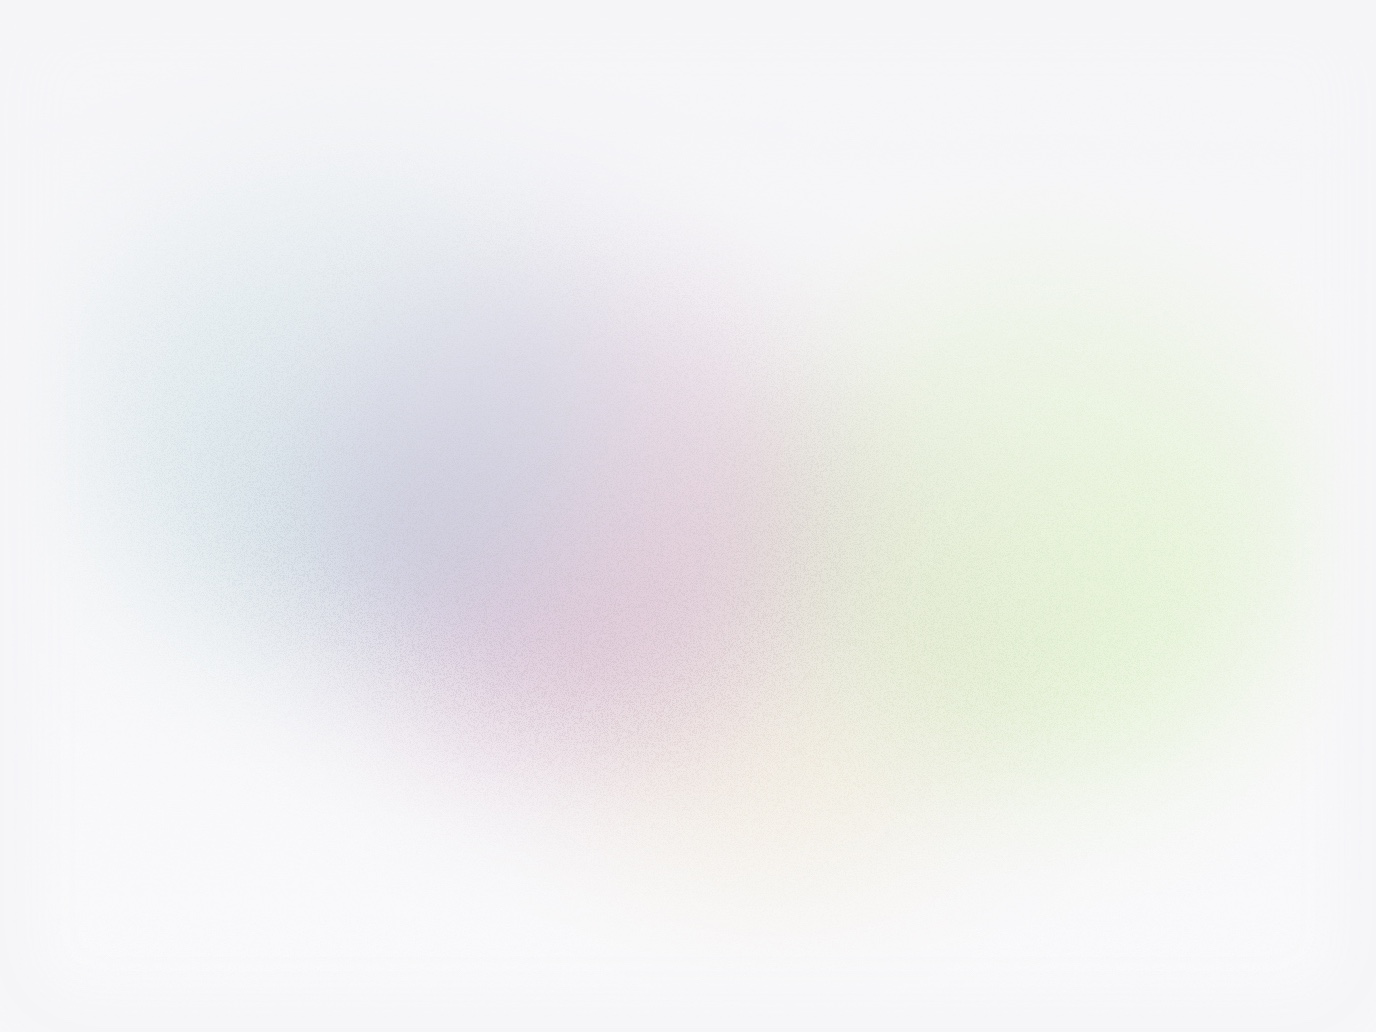
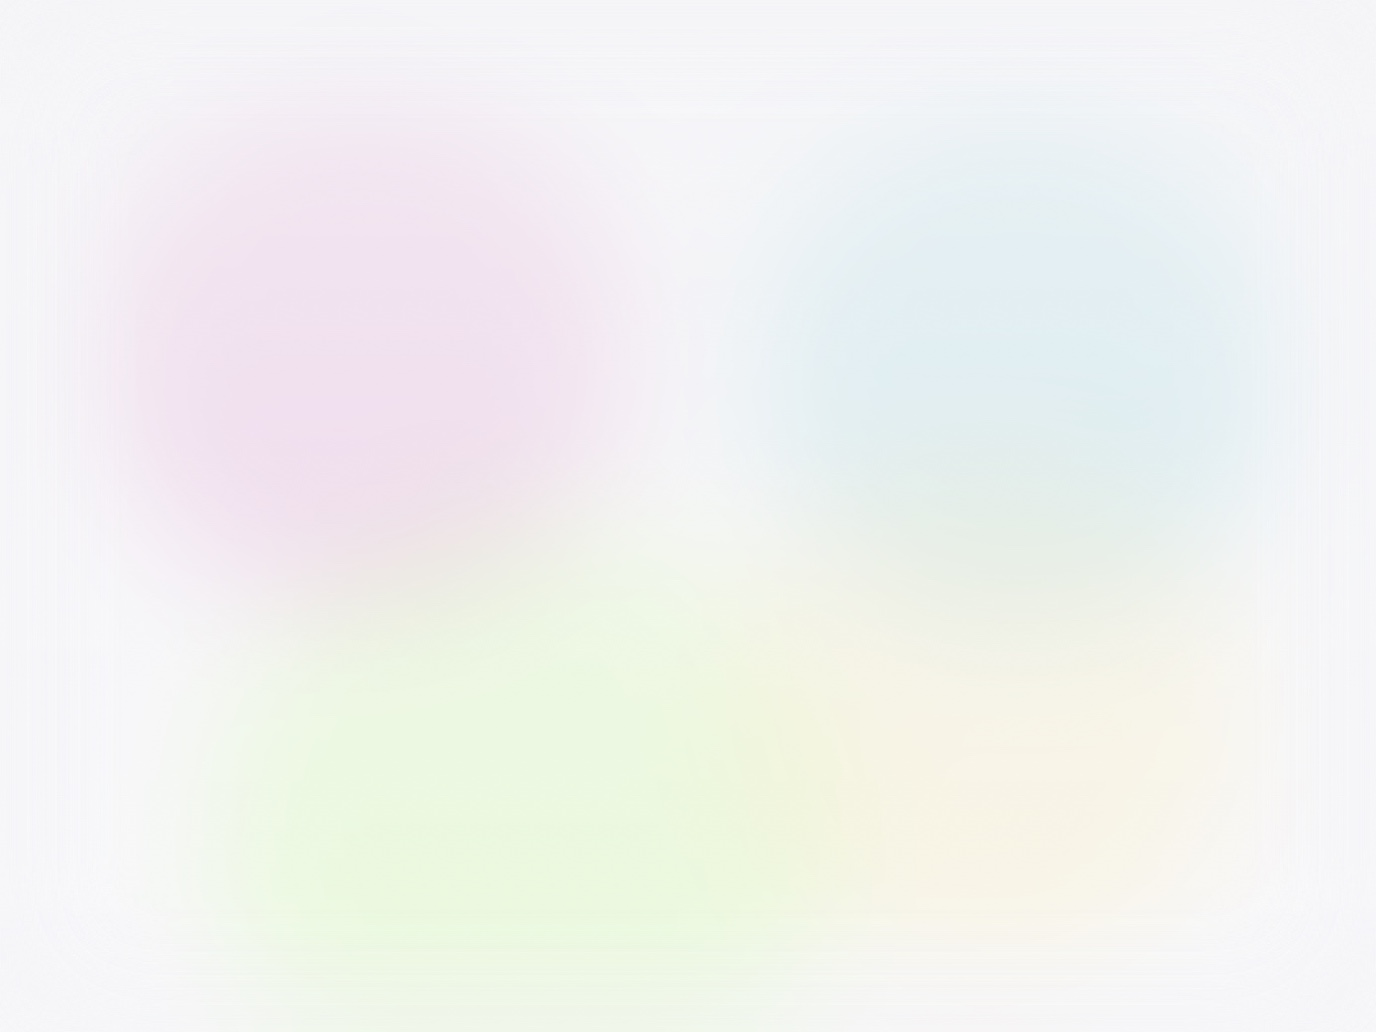
Adjust hero design

Changed region(s): [[0.1562, 0.3411, 0.625, 0.7442], [0.2188, 0.7752, 0.4688, 0.9302]]

diff --git a/_includes/kankoda/heros/hero.html b/_includes/kankoda/heros/hero.html
@@ -8,22 +8,18 @@
 {% endif %}
   
 {% if has-hero %}
-<section class="hero {{page.hero-class}}">
-    <div class="wrapper">
-        {% if has-icon > 0 %}
-        <img class="app-icon sticker" src="{{page.hero-icon}}" />
-        {% endif %}
-        <h1>{{page.hero-title | default: page.title}}</h1>
-        <p>{{page.hero-description | default: page.description}}</p>
-        {% if has-image > 0 %}
-        <div class="image-wrapper">
-            <img src="{{page.hero-image}}" alt="Hero image for {{page.id}} page" class="{{page.hero-image-class}}" />
-        </div>
-        {% elsif has-emoji > 0 %}
-        <span class="emoji">
-            {{page.hero-emoji}}
-        </span>
-        {% endif %}
-    </div>
+<section class="hero wrapper">
+  {% if has-icon > 0 %}
+  <img class="app-icon sticker" src="{{page.hero-icon}}" />
+  {% endif %}
+  <h1>{{page.hero-title | default: page.title}}</h1>
+  <h2>{{page.hero-description | default: page.description}}</h2>
+  {% if has-image > 0 %}
+  <img src="{{page.hero-image}}" alt="Hero image for {{page.id}} page" class="{{page.hero-image-class}}" />
+  {% elsif has-emoji > 0 %}
+  <span class="emoji">
+      {{page.hero-emoji}}
+  </span>
+  {% endif %}
 </section>
 {% endif %}

diff --git a/_sass/kankoda/glass.scss b/_sass/kankoda/glass.scss
@@ -1,18 +1,25 @@
-.glass-container {
+.glass-panel {
+  position: relative;
+  z-index: 1;
+}
 
-  margin: 40px 0;
-  background-image: url('/assets/bg/glass-1.jpg');
+.glass-panel::before {
+  content: "";
+  position: absolute;
+  top: 0; 
+  left: 0;
+  width: 100%; 
+  height: 100%;  
+  opacity: .6; 
+  z-index: -1;
+  background: url('/assets/bg/glass-1.jpg');
   background-position: center;
-  background-size: 100% 100%; /* Stretch image to exactly fill container */
+  background-size: 100% 100%; /* Stretch image to exactly fill panel */
   background-repeat: no-repeat;
-
-  h1 + img { margin: 70px 0; }
 }
 
-.glasscontainer.bg1 {
-  background-image: url('/assets/bg/glass-1.jpg');
-}
-
-.glasscontainer.bg2 {
-  background-image: url('/assets/bg/glass-2.jpg');
-}
+.glass-panel.bg-1::before { background-image: url('/assets/bg/glass-1.jpg'); }
+.glass-panel.bg-2::before { background-image: url('/assets/bg/glass-2.jpg'); }
+.glass-panel.bg-3::before { background-image: url('/assets/bg/glass-3.jpg'); }
+.glass-panel.bg-4::before { background-image: url('/assets/bg/glass-4.jpg'); }
+.glass-panel.bg-5::before { background-image: url('/assets/bg/glass-5.jpg'); }

diff --git a/_sass/kankoda/heros.scss b/_sass/kankoda/heros.scss
@@ -1,58 +1,28 @@
 .hero {
-  padding-top: 50px;
   text-align: center;
-  
-  h1 {
-    font-size: 3.0em !important;
-  }
+
+  h1 { font-size: 1.8em !important; }
+  h2 { font-size: 2.3em !important; }
+  h2 { margin-top: 0em !important; font-weight: bold;}
+  h2 + img { margin: 60px 0; }
 
   img.app-icon {
     width: 100px;
     height: 100px !important;
     margin-bottom: 20px;
   }
-  
-  .image-wrapper {
-    padding: 40px 0;
-  }
-
-  p { 
-    font-size: 1.2em;
-    font-weight: 600 !important;
-  }
-  
-  .emoji {
-    font-size: 10em;
-  }
 }
 
-.hero {
-  img {
-    max-height: 350px !important;
-  }
-}
-
-.home .hero, .hero.devices {
-  img {
-    max-height: 700px !important;
-  }
-}
-
-@media (max-width: 600px) {
+@media (max-width: 500px) {
 
   .hero {
-    padding-top: 35px;
-
-    h1 {
-      font-size: 2em !important;
+    h1 { font-size: 1.3em !important; }
+    h2 { font-size: 1.6em !important; }
+  
+    img.app-icon {
+      width: 100px;
+      height: 100px !important;
+      margin-bottom: 20px;
     }
-
-    .emoji {
-      font-size: 7em !important;
-    }
-  }
-
-  .hero + main {
-    padding-top: 25px;
   }
 }

diff --git a/index.html b/index.html
@@ -2,22 +2,21 @@
 id: home
 title: Home
 layout: plain
-
-description: Kankoda builds software for Apple platforms, using Swift & SwiftUI
+page-class: glass-panel bg-1
+description: Kankoda builds software for all major Apple platforms, using Swift & SwiftUI
 ---
 
 <div class="paper">
 
-  <section class="glass-container">
+  <section class="hero">
     <div class="wrapper wide">
-      <h2><b>Kankoda</b></h2>
-      <h1>Amazing apps & SDKs for Apple platforms</h1>
+      <h1>Kankoda</h1>
+      <h2>Amazing apps & SDKs for Apple platforms</h2>
       <img src="/assets/devices.png" />
     </div>
   </section>
 
   <div class="wrapper">
-
     <section>
       <p>
         Kankoda builds <a href="/sdks">SDKs</a> and <a href="/apps">apps</a> for Apple platforms, using technologies like Swift, SwiftUI and the Swift Package Manager.

diff --git a/_layouts/plain.html b/_layouts/plain.html
@@ -2,16 +2,16 @@
 <html lang="{{ page.lang | default: site.lang | default: "en" }}">
   {% include kankoda/head/head.html %}
 
-  <body class="{{page.id}} {{body_class}}"> 
+  <body class="{{page.id}} {{page.page-class}}"> 
     
     <!-- Header -->
-    <header class="site-header paper" role="banner">
+    <header class="site-header" role="banner">
       {% include kankoda/global/site-header.html %}
-      {% include kankoda/heros/hero.html %}
     </header>
 
     <!-- Content -->
     <main class="page-content" aria-label="Content">
+      {% include kankoda/heros/hero.html %}
       {{ content }}
     </main>
 

diff --git a/pages/apps.md b/pages/apps.md
@@ -3,17 +3,14 @@ id: apps
 title: Apps
 layout: page
 permalink: /apps
+page-class: glass-panel bg-2
+description: Kankoda builds multiplatform apps for all major Apple platforms
 
-description: Kankoda builds multi-platform apps with Swift & SwiftUI
+hero-image: /assets/heros/apps.png
+hero-description: Multiplatform apps for Apple platforms
 ---
 
-<section class="glass-container bg-2 centered">
-    <h2>Apps</h2>
-    <h1>Kankoda builds multiplatform apps for all major Apple platforms.</h1>
-    <img src="/assets/heros/apps.png" class="plain" />
-</section>
-
-Kankoda builds apps for the [App Store]({{site.urls.appstore}}). Due to the main focus on SDKs, open-source & client work, most of our apps are small, but built with the latest versions of [Swift]({{site.urls.swift}}) & [SwiftUI]({{site.urls.swiftui}}).
+Kankoda has a bunch of apps on the [App Store]({{site.urls.appstore}}). Due to the company's focus on SDKs, open-source & client work, most apps are small, but they're built with the latest versions of [Swift]({{site.urls.swift}}) & [SwiftUI]({{site.urls.swiftui}}).
 
 
 ## Apps

diff --git a/pages/sdks.md b/pages/sdks.md
@@ -3,15 +3,12 @@ id: sdks
 title: SDKs
 layout: page
 permalink: /sdks
+page-class: glass-panel bg-3
+description: Kankoda builds multiplatform SDKs for all major Apple platforms
 
-description: Kankoda builds open-source & closed-source SDKs for the Apple ecosystem
+hero-image: /assets/heros/sdks.png
+hero-description: Multiplatform SDKs for Apple platforms
 ---
-
-<section class="glass-container bg-2 centered">
-    <h2>SDKs</h2>
-    <h1>Kankoda builds multiplatform SDKs for all major Apple platforms.</h1>
-    <img src="/assets/heros/sdks.png" class="plain" />
-</section>
 
 Kankoda builds SDKs for the Apple ecosystem, using [Swift]({{site.urls.swift}}), [SwiftUI]({{site.urls.swiftui}}) and [Swift Package Manager]({{site.urls.spm}}) to create developer tools for iOS, iPadOS, macOS, tvOS, watchOS & visionOS.
 

diff --git a/pages/about.md b/pages/about.md
@@ -3,6 +3,7 @@ id: about
 title: About
 layout: page
 permalink: /about
+page-class: glass-panel bg-5
 
 image:  /assets/headers/kankoda-sthlm.jpg
 
@@ -16,7 +17,6 @@ description: Kankoda builds apps & SDKs for all major Apple platforms.
 Kankoda is an software company in [Stockholm, Sweden]({{site.urls.stockholm}}), that builds software for all major Apple platforms, using technologies like [Swift]({{site.urls.swift}}), [SwiftUI]({{site.urls.swiftui}}), and the [Swift Package Manager]({{site.urls.spm}}).
 
 Kankoda builds [SDKs](/sdks) and [apps](/apps) for the Apple ecosystem and helps companies as freelance experts on app development & architecture.
-
 
 {% include company/contact-section.md %}
 

diff --git a/pages/blog.md b/pages/blog.md
@@ -1,7 +1,9 @@
 ---
-layout: blog
+id: blog
 title: Blog
+layout: blog
 permalink: /blog/
+page-class: glass-panel bg-4
 ---
 
 <h1>Blog</h1>
